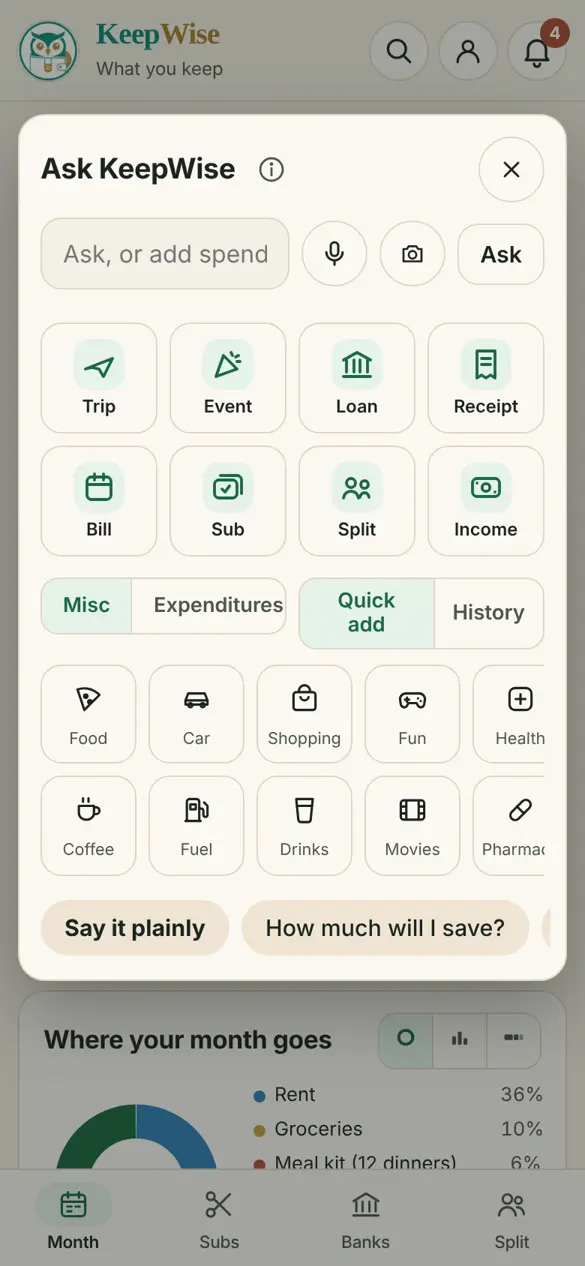
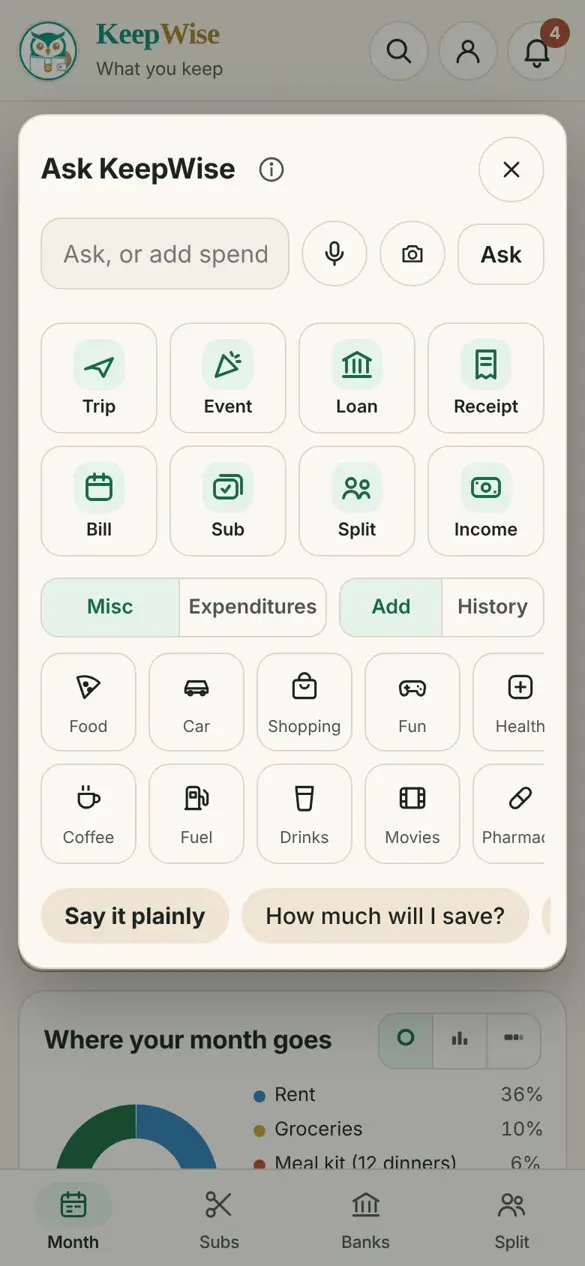
Owl sheet: tidy Misc / Expenditures and Add / History toggles on one clean row
Claude-Session: https://claude.ai/code/session_012kKozE1bVfyPkug9RNwcMn

Changed region(s): [[0.0308, 0.4621, 0.9846, 0.8009]]

diff --git a/src/app.html b/src/app.html
@@ -582,7 +582,7 @@ details summary::-webkit-details-marker{display:none}
 .addx{display:grid;grid-template-columns:repeat(4,1fr);gap:8px;margin:12px 0 4px}
 .addx-t{display:grid;justify-items:center;gap:4px;padding:10px 2px;border-radius:14px;border:1px solid var(--line);background:var(--card);color:var(--ink);font:600 .74rem var(--body);cursor:pointer;min-height:64px}.addx-t:hover{border-color:var(--green)}
 .addx-t span{width:34px;height:34px;border-radius:11px;display:grid;place-items:center;background:var(--green-soft);color:var(--green)}
-.quick-top{display:flex;gap:8px;flex-wrap:wrap;align-items:center}.quick-top .seg{flex:1 1 150px}.quick-view button{font-size:.86rem}.quick-rep{margin:10px 0 2px}.rep-chip{display:inline-flex;gap:6px;align-items:center;white-space:nowrap;background:var(--card);border:1px solid var(--line);box-shadow:var(--lift);border-radius:99px}.rep-chip b{font-weight:700}
+.quick-top{display:grid;grid-template-columns:1.4fr 1fr;gap:8px;align-items:center}.quick-top .seg{width:100%;margin:0}.quick-top .seg{display:flex}.quick-top .seg button{flex:1 1 0;white-space:nowrap;padding:8px 6px;font-size:.84rem;min-height:38px;text-align:center}.quick-top .seg{flex:1 1 150px}.quick-view button{font-size:.86rem}.quick-rep{margin:10px 0 2px}.rep-chip{display:inline-flex;gap:6px;align-items:center;white-space:nowrap;background:var(--card);border:1px solid var(--line);box-shadow:var(--lift);border-radius:99px}.rep-chip b{font-weight:700}
 .qh-list{margin-top:8px}.qh-row{gap:10px;padding:9px 0}.qh-row:first-child{border-top:0}.qh-row .btn.small{padding:6px 12px}.qh-row .ln-t{min-width:0}.qh-row .ln-t>div:first-child{overflow:hidden;text-overflow:ellipsis;white-space:nowrap}.qh-x{appearance:none;border:0;background:none;color:var(--muted);width:32px;height:32px;margin:0 -6px 0 -4px;border-radius:50%;display:grid;place-items:center;cursor:pointer;flex:none}.qh-x:hover{background:var(--chip);color:var(--rust)}
 [data-out=envTotal]{display:flex;flex-direction:column;gap:8px}.env-tot{font-size:.95rem;color:var(--muted)}.env-tot b{color:var(--ink);font-size:1.05rem}.env-bar{display:flex;height:8px;border-radius:8px;overflow:hidden;background:var(--chip)}.env-bar i{display:block;height:100%}
 .bills-list .line:first-of-type{border-top:0}.bills-left{margin-top:4px}.bl-row{display:flex;align-items:center;gap:10px;padding:5px 0}.bl-row .tick{width:24px;height:24px;flex:none}.bl-n{flex:1;min-width:0;font-size:.95rem;overflow:hidden;text-overflow:ellipsis;white-space:nowrap}.bl-foot{display:flex;justify-content:space-between;align-items:baseline;gap:10px;flex-wrap:wrap}.bills-ln{padding:9px 0}.bills-all{appearance:none;border:0;background:none;font:inherit;color:inherit;width:100%;display:flex;align-items:center;gap:10px;padding:0;cursor:pointer;text-align:left}.bills-all b{flex:1;font-size:1.02rem}.bills-ok{width:28px;height:28px;border-radius:50%;background:var(--green);color:var(--card);display:grid;place-items:center;flex:none}.bills-ok svg{width:15px;height:15px}.bills-all[aria-expanded=true] .dt-tog svg{transform:rotate(90deg)}.bills-done .bills-list{margin-top:8px}
@@ -3924,7 +3924,7 @@ function quickPick(){
   const exp = UI.quickEnv === "exp", list = exp ? EXP_QUICK : QUICK, on = UI.quick && list.find(([k]) => k === UI.quick), line = exp && on ? expFor(on) : null, hist = UI.quickView === "hist";
   const rep = !exp && !hist ? quickRepeat() : [];
   return `<div class="quick" data-quick><div class="quick-top"><div class="seg quick-env" role="group" aria-label="Where it goes"><button type="button" data-quick-env="misc" aria-pressed="${!exp}">Misc</button><button type="button" data-quick-env="exp" aria-pressed="${exp}">Expenditures</button></div>
-    <div class="seg quick-view" role="group" aria-label="Add or look back"><button type="button" data-quick-view="add" aria-pressed="${!hist}">Quick add</button><button type="button" data-quick-view="hist" aria-pressed="${hist}">History</button></div></div>
+    <div class="seg quick-view" role="group" aria-label="Add or look back"><button type="button" data-quick-view="add" aria-pressed="${!hist}">Add</button><button type="button" data-quick-view="hist" aria-pressed="${hist}">History</button></div></div>
     ${hist ? quickHistory(exp) + `</div>` : `${rep.length ? `<div class="chips quick-rep" data-scroll-x aria-label="Log again">${rep.map(g => `<button class="chip rep-chip" type="button" data-rep="${esc(g.key)}"><span aria-hidden="true">${emoFor(g.items[0].name)}</span> ${esc(g.items[0].name)} <b class="tnum">${fmt(g.items[0].amount)}</b></button>`).join("")}</div>` : ""}
     <div class="quick-grid" data-scroll-x role="group" aria-label="Add spending by category">${list.map(([k, n]) => `<button type="button" class="quick-ic" data-quick-ic="${k}" aria-pressed="${UI.quick === k}" aria-label="${esc(n)}"><span>${I[k]}</span><small>${esc(n.split(" ")[0])}</small></button>`).join("")}</div>
     ${on ? `${exp ? `<p class="small muted quick-note">${line ? `${esc(line.name)}: ${fmt(billSpendIn(line.id, compute().planKey))} of ${fmt(+line.amount || 0)} used this month` : `No ${esc(on[1].toLowerCase())} bill yet. This adds one, a month.`}</p>` : ""}

diff --git a/www/index.html b/www/index.html
@@ -612,7 +612,7 @@ details summary::-webkit-details-marker{display:none}
 .addx{display:grid;grid-template-columns:repeat(4,1fr);gap:8px;margin:12px 0 4px}
 .addx-t{display:grid;justify-items:center;gap:4px;padding:10px 2px;border-radius:14px;border:1px solid var(--line);background:var(--card);color:var(--ink);font:600 .74rem var(--body);cursor:pointer;min-height:64px}.addx-t:hover{border-color:var(--green)}
 .addx-t span{width:34px;height:34px;border-radius:11px;display:grid;place-items:center;background:var(--green-soft);color:var(--green)}
-.quick-top{display:flex;gap:8px;flex-wrap:wrap;align-items:center}.quick-top .seg{flex:1 1 150px}.quick-view button{font-size:.86rem}.quick-rep{margin:10px 0 2px}.rep-chip{display:inline-flex;gap:6px;align-items:center;white-space:nowrap;background:var(--card);border:1px solid var(--line);box-shadow:var(--lift);border-radius:99px}.rep-chip b{font-weight:700}
+.quick-top{display:grid;grid-template-columns:1.4fr 1fr;gap:8px;align-items:center}.quick-top .seg{width:100%;margin:0}.quick-top .seg{display:flex}.quick-top .seg button{flex:1 1 0;white-space:nowrap;padding:8px 6px;font-size:.84rem;min-height:38px;text-align:center}.quick-top .seg{flex:1 1 150px}.quick-view button{font-size:.86rem}.quick-rep{margin:10px 0 2px}.rep-chip{display:inline-flex;gap:6px;align-items:center;white-space:nowrap;background:var(--card);border:1px solid var(--line);box-shadow:var(--lift);border-radius:99px}.rep-chip b{font-weight:700}
 .qh-list{margin-top:8px}.qh-row{gap:10px;padding:9px 0}.qh-row:first-child{border-top:0}.qh-row .btn.small{padding:6px 12px}.qh-row .ln-t{min-width:0}.qh-row .ln-t>div:first-child{overflow:hidden;text-overflow:ellipsis;white-space:nowrap}.qh-x{appearance:none;border:0;background:none;color:var(--muted);width:32px;height:32px;margin:0 -6px 0 -4px;border-radius:50%;display:grid;place-items:center;cursor:pointer;flex:none}.qh-x:hover{background:var(--chip);color:var(--rust)}
 [data-out=envTotal]{display:flex;flex-direction:column;gap:8px}.env-tot{font-size:.95rem;color:var(--muted)}.env-tot b{color:var(--ink);font-size:1.05rem}.env-bar{display:flex;height:8px;border-radius:8px;overflow:hidden;background:var(--chip)}.env-bar i{display:block;height:100%}
 .bills-list .line:first-of-type{border-top:0}.bills-left{margin-top:4px}.bl-row{display:flex;align-items:center;gap:10px;padding:5px 0}.bl-row .tick{width:24px;height:24px;flex:none}.bl-n{flex:1;min-width:0;font-size:.95rem;overflow:hidden;text-overflow:ellipsis;white-space:nowrap}.bl-foot{display:flex;justify-content:space-between;align-items:baseline;gap:10px;flex-wrap:wrap}.bills-ln{padding:9px 0}.bills-all{appearance:none;border:0;background:none;font:inherit;color:inherit;width:100%;display:flex;align-items:center;gap:10px;padding:0;cursor:pointer;text-align:left}.bills-all b{flex:1;font-size:1.02rem}.bills-ok{width:28px;height:28px;border-radius:50%;background:var(--green);color:var(--card);display:grid;place-items:center;flex:none}.bills-ok svg{width:15px;height:15px}.bills-all[aria-expanded=true] .dt-tog svg{transform:rotate(90deg)}.bills-done .bills-list{margin-top:8px}
@@ -3954,7 +3954,7 @@ function quickPick(){
   const exp = UI.quickEnv === "exp", list = exp ? EXP_QUICK : QUICK, on = UI.quick && list.find(([k]) => k === UI.quick), line = exp && on ? expFor(on) : null, hist = UI.quickView === "hist";
   const rep = !exp && !hist ? quickRepeat() : [];
   return `<div class="quick" data-quick><div class="quick-top"><div class="seg quick-env" role="group" aria-label="Where it goes"><button type="button" data-quick-env="misc" aria-pressed="${!exp}">Misc</button><button type="button" data-quick-env="exp" aria-pressed="${exp}">Expenditures</button></div>
-    <div class="seg quick-view" role="group" aria-label="Add or look back"><button type="button" data-quick-view="add" aria-pressed="${!hist}">Quick add</button><button type="button" data-quick-view="hist" aria-pressed="${hist}">History</button></div></div>
+    <div class="seg quick-view" role="group" aria-label="Add or look back"><button type="button" data-quick-view="add" aria-pressed="${!hist}">Add</button><button type="button" data-quick-view="hist" aria-pressed="${hist}">History</button></div></div>
     ${hist ? quickHistory(exp) + `</div>` : `${rep.length ? `<div class="chips quick-rep" data-scroll-x aria-label="Log again">${rep.map(g => `<button class="chip rep-chip" type="button" data-rep="${esc(g.key)}"><span aria-hidden="true">${emoFor(g.items[0].name)}</span> ${esc(g.items[0].name)} <b class="tnum">${fmt(g.items[0].amount)}</b></button>`).join("")}</div>` : ""}
     <div class="quick-grid" data-scroll-x role="group" aria-label="Add spending by category">${list.map(([k, n]) => `<button type="button" class="quick-ic" data-quick-ic="${k}" aria-pressed="${UI.quick === k}" aria-label="${esc(n)}"><span>${I[k]}</span><small>${esc(n.split(" ")[0])}</small></button>`).join("")}</div>
     ${on ? `${exp ? `<p class="small muted quick-note">${line ? `${esc(line.name)}: ${fmt(billSpendIn(line.id, compute().planKey))} of ${fmt(+line.amount || 0)} used this month` : `No ${esc(on[1].toLowerCase())} bill yet. This adds one, a month.`}</p>` : ""}

diff --git a/www/sw.js b/www/sw.js
@@ -1,5 +1,5 @@
-// KeepWise service worker, build ab4f239113
-const CACHE = "keepwise-ab4f239113";
+// KeepWise service worker, build b4cdbbd1c3
+const CACHE = "keepwise-b4cdbbd1c3";
 const SHELL = ["./", "index.html", "manifest.webmanifest", "icons/icon-192.png", "icons/icon-512.png", "icons/apple-touch-icon.png"];
 self.addEventListener("install", e => { e.waitUntil(caches.open(CACHE).then(c => c.addAll(SHELL)).then(() => self.skipWaiting())); });
 self.addEventListener("activate", e => { e.waitUntil(caches.keys().then(ks => Promise.all(ks.filter(k => k !== CACHE).map(k => caches.delete(k)))).then(() => self.clients.claim())); });
